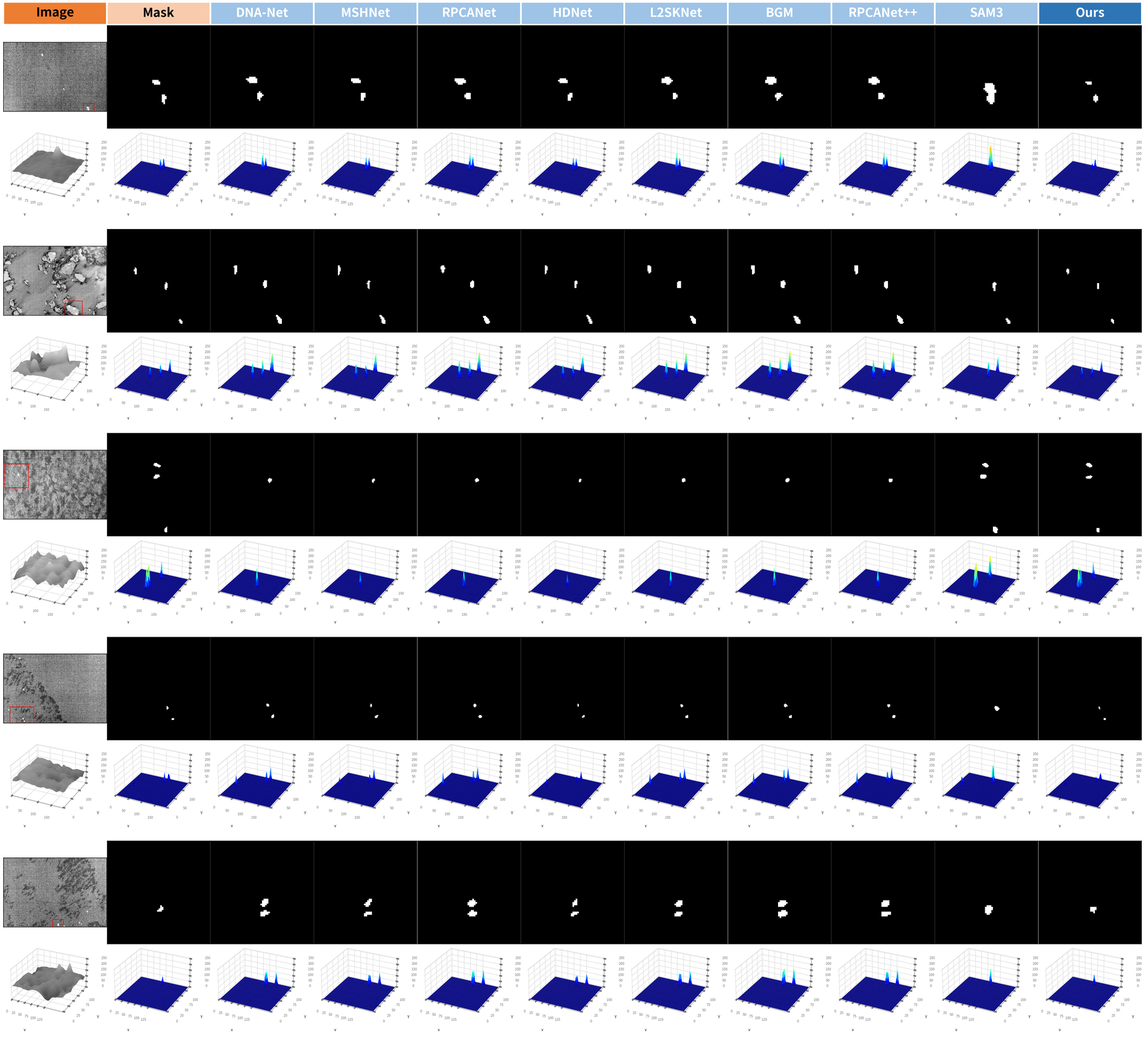
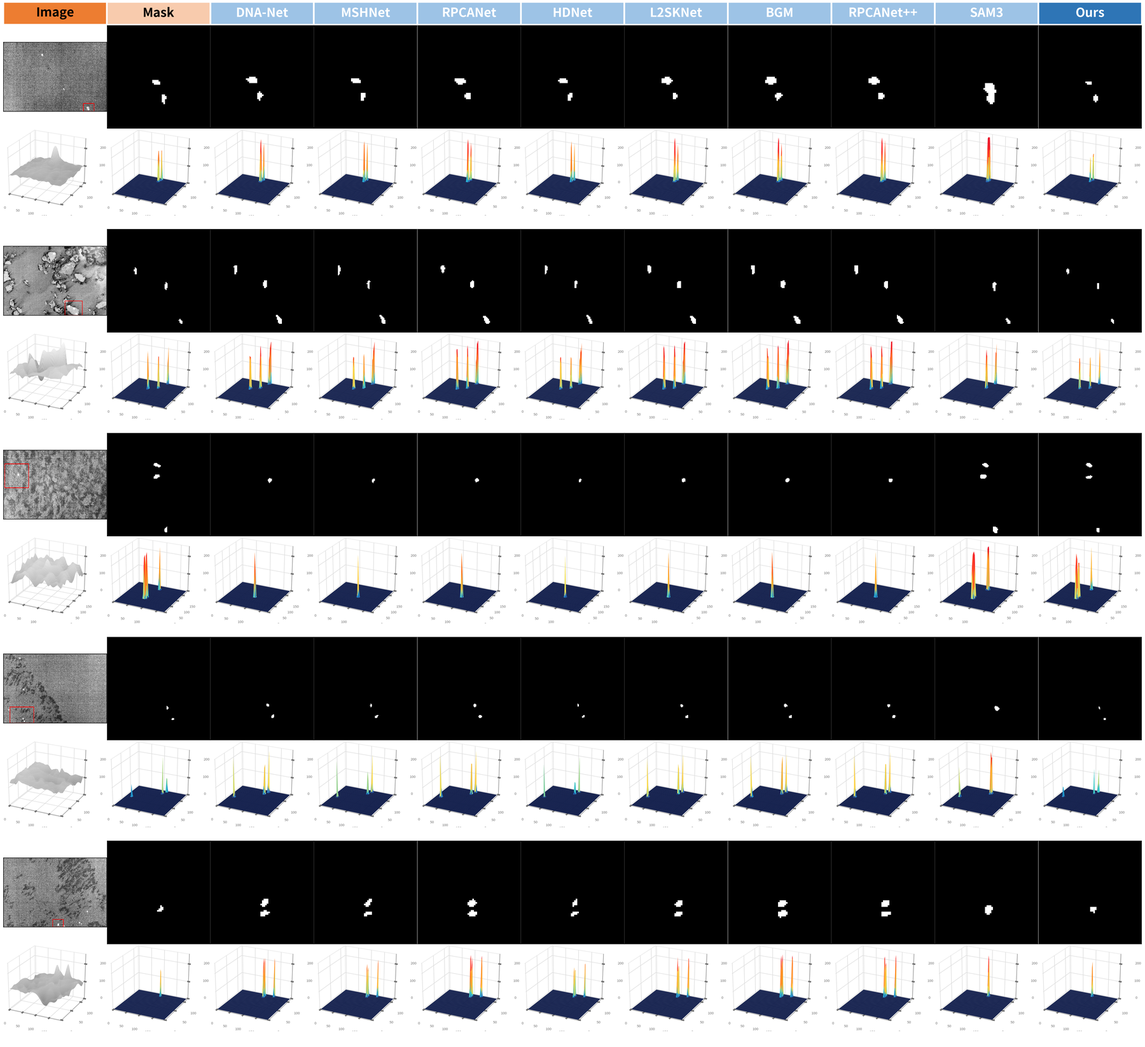
定性图 v5：3D 更满、峰更高更显眼、Visio 改用 TP/FP/FN 诊断面板
1) 3D 再满一档：trim_white pad 26 -> 6 px，盒子几乎占满格子
2) 峰更高更明显：
   - 平滑 sigma 2.0 -> 0.9（vmax 取平滑后峰值，峰顶到天花板；v3 峰顶只到 63%）
   - Z 轴统一 0-255（--z-mode shared），概率图同一量纲、跨列可比
   - 盒子 z 比例 0.55 -> 1.00，峰在画面里更挺
   - 自定义 seal3d 色带（深蓝底 -> 青 -> 黄 -> 亮红）+ PowerNorm(0.45)，峰体整段暖色
3) 新增 --diag：TP 白 / FP 红 / FN 绿 + 红框标 GT；单独一套 panels_diag（242 张）
   Visio 改用诊断面板，可直接看漏检/误检

服务器 v1-v5 全留；本地只留 v5；Ours/qualitative/ 仍不进 git

diff --git a/tools/build_paper_qualitative.py b/tools/build_paper_qualitative.py
@@ -37,6 +37,7 @@ matplotlib.use('Agg')
 import matplotlib.pyplot as plt  # noqa: E402
 import numpy as np  # noqa: E402
 from matplotlib import gridspec  # noqa: E402
+from matplotlib.colors import LinearSegmentedColormap, PowerNorm  # noqa: E402
 from matplotlib.ticker import MaxNLocator  # noqa: E402
 from scipy.ndimage import gaussian_filter  # noqa: E402
 
@@ -52,6 +53,17 @@ RED = (0, 0, 255)          # BGR
 ZOOM = 10
 MARGIN = 32
 MIN_BOX = 80
+
+# 3D 响应面配色：底色深蓝（近乎黑），峰顶亮红——和压平的背景形成强对比
+SURF_CMAP = LinearSegmentedColormap.from_list('seal3d', [
+    (0.00, '#0a1746'),
+    (0.22, '#1f5fbe'),
+    (0.40, '#22c6d8'),
+    (0.60, '#ffe14d'),
+    (0.74, '#ff8a1f'),
+    (0.86, '#ff2d2d'),
+    (1.00, '#e00b2b'),
+])
 
 
 def load_image(stem, modality, gamma=1.0, stretch='percentile'):
@@ -122,6 +134,50 @@ def compose_panel(sheet, roi, with_box=True, with_inset=True, zoom=ZOOM):
     return panel
 
 
+def diag_panel(pred_bin, gt_bin, gt, roi, roi_mode, target=384, box_pad=8):
+    """TP/FP/FN colour panel: TP white, FP red, FN green, plus a red GT box.
+
+    Used for the Visio assembly so each method's error pattern (miss = green,
+    false alarm = red) is visible at a glance.
+    """
+    h, w = gt_bin.shape
+    colour = np.zeros((h, w, 3), np.uint8)
+    colour[pred_bin & gt_bin] = (255, 255, 255)
+    colour[pred_bin & ~gt_bin] = (0, 0, 255)      # BGR red
+    colour[~pred_bin & gt_bin] = (0, 255, 0)      # BGR green
+
+    ys, xs = np.where(gt_bin)
+    if len(ys):
+        gx0, gx1 = int(xs.min()), int(xs.max())
+        gy0, gy1 = int(ys.min()), int(ys.max())
+    else:
+        gx0 = gx1 = gy0 = gy1 = 0
+
+    y0, y1, x0, x1 = roi
+    if roi_mode:
+        crop = colour[y0:y1, x0:x1]
+        side = max(crop.shape[:2])
+        k = max(1, int(round(target / max(1, side))))
+        crop = cv2.resize(crop, None, fx=k, fy=k, interpolation=cv2.INTER_NEAREST)
+        ch, cw = crop.shape[:2]
+        canvas = np.zeros((max(ch, cw), max(ch, cw), 3), np.uint8)
+        oy, ox = (canvas.shape[0] - ch) // 2, (canvas.shape[1] - cw) // 2
+        canvas[oy:oy + ch, ox:ox + cw] = crop
+        # GT box in the upscaled ROI
+        bx0 = ox + (gx0 - x0) * k - box_pad
+        bx1 = ox + (gx1 - x0) * k + box_pad
+        by0 = oy + (gy0 - y0) * k - box_pad
+        by1 = oy + (gy1 - y0) * k + box_pad
+        thick = 2
+        cv2.rectangle(canvas, (max(0, bx0), max(0, by0)), (min(canvas.shape[1] - 1, bx1),
+                      min(canvas.shape[0] - 1, by1)), RED, thick, cv2.LINE_AA)
+        return canvas
+
+    panel = colour.copy()
+    cv2.rectangle(panel, (x0, y0), (x1, y1), RED, 2, cv2.LINE_AA)
+    return panel
+
+
 def roi_panel(sheet, roi, target=384):
     """Panel = the ROI itself, upscaled with nearest-neighbour (no inset)."""
     y0, y1, x0, x1 = roi
@@ -154,50 +210,52 @@ def trim_white(img_bgr, pad=10, thr=250):
     return img_bgr[y0:y1, x0:x1]
 
 
-def render_surface_png(surf, path, vmax, cmap='jet', smooth=2.0,
-                       size_in=(0.873, 0.733), dpi=1200, pad=26):
+def render_surface_png(arr, path, vmax, cmap='jet',
+                       size_in=(0.873, 0.733), dpi=1200, pad=6):
     """One 3D box as a standalone PNG, tight-cropped so the box fills the frame.
 
-    Rendered at exactly one cell of the composite figure (0.873 x 0.733 in) with the
-    same tick font, then the white border is trimmed. The composite figure pastes this
-    PNG back into the cell with aspect='auto', so the 3D box fills the cell instead of
-    floating in matplotlib's generous default margins.
+    `arr` is the already-smoothed response crop. Rendered at one cell of the composite
+    figure (0.873 x 0.733 in) with the same tick font, then the white border is trimmed
+    to `pad` px, so pasting it back with aspect='auto' fills the cell.
     """
     path.parent.mkdir(parents=True, exist_ok=True)
     f = plt.figure(figsize=size_in, dpi=dpi, facecolor='white')
     ax = f.add_subplot(111, projection='3d')
-    add_surface(ax, surf, vmax=vmax, cmap=cmap, smooth=smooth)
+    add_surface(ax, arr, vmax=vmax, cmap=cmap)
     f.subplots_adjust(left=0.0, right=1.0, bottom=0.0, top=1.0)
     import io
 
     buf = io.BytesIO()
     f.savefig(buf, format='png', dpi=dpi, facecolor='white')
     plt.close(f)
-    arr = cv2.imdecode(np.frombuffer(buf.getvalue(), np.uint8), cv2.IMREAD_COLOR)
-    arr = trim_white(arr, pad=pad)
-    cv2.imwrite(str(path), arr)
+    img = cv2.imdecode(np.frombuffer(buf.getvalue(), np.uint8), cv2.IMREAD_COLOR)
+    img = trim_white(img, pad=pad)
+    cv2.imwrite(str(path), img)
     return path
 
 
-def add_surface(ax, data, vmax=255.0, smooth=2.0, cmap='jet', tick_font=1.8):
-    """PDDiff Fig. 9 style surface: white panes, light grid, thin grey axes, tick labels."""
-    arr = data.astype(np.float32)
-    if smooth > 0:
-        arr = gaussian_filter(arr, smooth)
+def add_surface(ax, arr, vmax=255.0, cmap=SURF_CMAP, tick_font=1.7):
+    """PDDiff Fig. 9 style surface: filled frame, light grid, thin grey axes, tick labels.
+
+    `arr` must already be smoothed; `vmax` is normally the peak of `arr`, so the target
+    response always reaches the top of the box (tall, obvious peak) and gets the hot end
+    of the colour map.
+    """
     h, w = arr.shape
     step = max(1, min(h, w) // 48)
     yy, xx = np.mgrid[0:h:step, 0:w:step]
     zz = arr[::step, ::step]
-    ax.plot_surface(xx, yy, zz, cmap=cmap, rstride=1, cstride=1, linewidth=0,
-                    antialiased=True, vmin=0, vmax=vmax, shade=False)
+    norm = PowerNorm(gamma=0.45, vmin=0, vmax=vmax)
+    ax.plot_surface(xx, yy, zz, cmap=cmap, norm=norm, rstride=1, cstride=1, linewidth=0,
+                    antialiased=True, shade=False)
     ax.set_zlim(0, vmax)
     ax.view_init(elev=26, azim=-64)
 
-    # 坐标刻度：X/Y 是裁剪块像素坐标，Z 是响应值（概率图 0-255）；取整数"好刻度"，与 PDDiff 一致
-    loc = MaxNLocator(nbins=5, integer=True, steps=[1, 2, 2.5, 5, 10])
+    # 坐标刻度：X/Y 是裁剪块像素坐标，Z 是响应值；取整数"好刻度"，与 PDDiff 一致
+    loc = MaxNLocator(nbins=4, integer=True, steps=[1, 2, 2.5, 5, 10])
     ax.xaxis.set_major_locator(loc)
     ax.yaxis.set_major_locator(loc)
-    ax.zaxis.set_major_locator(MaxNLocator(nbins=5, integer=True, steps=[1, 2, 2.5, 5, 10]))
+    ax.zaxis.set_major_locator(MaxNLocator(nbins=4, integer=True, steps=[1, 2, 2.5, 5, 10]))
     ax.tick_params(axis='x', labelsize=tick_font, pad=-3.0, length=0.4, width=0.15,
                    colors='0.45')
     ax.tick_params(axis='y', labelsize=tick_font, pad=-3.0, length=0.4, width=0.15,
@@ -218,7 +276,7 @@ def add_surface(ax, data, vmax=255.0, smooth=2.0, cmap='jet', tick_font=1.8):
         axis.line.set_linewidth(0.22)
 
     ax.grid(True)
-    ax.set_box_aspect((1, 1, 0.55), zoom=0.85)
+    ax.set_box_aspect((1, 1, 1.00), zoom=0.88)
     ax.margins(0)
 
 
@@ -242,6 +300,8 @@ def main():
                          '<dir>/<nn>_<id>/2d/<col>.png and .../3d/<col>.png')
     ap.add_argument('--roi-min', type=int, default=MIN_BOX, help='minimum ROI side (px)')
     ap.add_argument('--roi-margin', type=int, default=MARGIN, help='padding around the GT bbox (px)')
+    ap.add_argument('--diag', action='store_true',
+                    help='2D panels = TP white / FP red / FN green + red GT box (for Visio)')
     ap.add_argument('--roi-panels', action='store_true',
                     help='2D row = upscaled ROI instead of full frame + inset')
     ap.add_argument('--z-mode', default='per-panel', choices=['shared', 'per-panel'])
@@ -345,15 +405,23 @@ def main():
                     panels.append(cv2.cvtColor(img, cv2.COLOR_GRAY2BGR))
                 surfaces.append(img[sy0:sy1, sx0:sx1])
             elif kind == 'mask':
-                sheet = np.where(gt > 127, 255, 0).astype(np.uint8)
-                panels.append(roi_panel(sheet, roi) if args.roi_panels else compose_panel(sheet, roi))
+                gt_bin = gt > 127
+                sheet = np.where(gt_bin, 255, 0).astype(np.uint8)
+                if args.diag:
+                    panels.append(diag_panel(gt_bin, gt_bin, gt, roi, args.roi_panels))
+                else:
+                    panels.append(roi_panel(sheet, roi) if args.roi_panels else compose_panel(sheet, roi))
                 surfaces.append(sheet[sy0:sy1, sx0:sx1])
             else:
                 m = load_map(path / f'{stem}.png')
                 if m.shape != gt.shape:
                     raise ValueError(f'{name}/{stem}: {m.shape} != {gt.shape}')
-                sheet = np.where(m >= 128, 255, 0).astype(np.uint8)
-                panels.append(roi_panel(sheet, roi) if args.roi_panels else compose_panel(sheet, roi))
+                pred_bin = m >= 128
+                sheet = np.where(pred_bin, 255, 0).astype(np.uint8)
+                if args.diag:
+                    panels.append(diag_panel(pred_bin, gt > 127, gt, roi, args.roi_panels))
+                else:
+                    panels.append(roi_panel(sheet, roi) if args.roi_panels else compose_panel(sheet, roi))
                 if name in surf_dirs:
                     resp = load_map(surf_dirs[name] / f'{stem}.png')
                     if resp.shape != gt.shape:
@@ -371,13 +439,15 @@ def main():
             for spine in ax.spines.values():
                 spine.set_color('black'), spine.set_linewidth(0.3)
         for j, surf in enumerate(surfaces):
-            vmax = 255.0 if args.z_mode == 'shared' else max(20.0, float(surf.max()))
-            cmap = 'gray' if columns[j][2] == 'image' else 'jet'
-            smooth = 5.0 if columns[j][2] == 'image' else 2.0
+            cmap = 'gray' if columns[j][2] == 'image' else SURF_CMAP
+            smooth = 5.0 if columns[j][2] == 'image' else 0.9
+            arr = gaussian_filter(surf.astype(np.float32), smooth)
+            peak = float(arr.max())
+            vmax = 255.0 if args.z_mode == 'shared' else max(20.0, peak)
             col = safe_name(columns[j][0])
-            p3d = cache_root / f'{stem}_{j:02d}_{col}_{int(vmax)}.png'
+            p3d = cache_root / f'{stem}_{j:02d}_{col}_{int(round(vmax))}.png'
             if not p3d.exists():
-                render_surface_png(surf, p3d, vmax=vmax, cmap=cmap, smooth=smooth)
+                render_surface_png(arr, p3d, vmax=vmax, cmap=cmap)
             if split_root is not None:
                 dst = split_root / f'{si + 1:02d}_{stem}' / '3d' / f'{j:02d}_{col}.png'
                 dst.parent.mkdir(parents=True, exist_ok=True)

diff --git a/AGENTS.md b/AGENTS.md
@@ -62,7 +62,7 @@
 - DRPCA-Net 的 11.23 FPS 是实现开销而非测量噪声：`torch.profiler` 显示单次前向 CUDA 时间的 81.8 % 花在 `ChannelAttention` 的 `nn.AdaptiveMaxPool2d(1)`（每前向 29 次调用），且延迟对 batch 1/2/4 不敏感（85/56/65 ms）。按官方代码如实记录，不改实现。口径、对照表与差异分析见 [Seal 复杂度指标说明](docs/Seal复杂度指标_说明.md)。
 - 平凡基线（决定读表方式，不新增表行）：全背景预测（1,983 张全零）在同一 test GT 上为 S 0.49990、Fw 0、E 0.25、MAE 0.00020553，IoU/F1/Pd/Fa 均为 0。12 个基线与 Ours 的 S（0.49800–0.49915）全部低于该值，12 个基线的 MAE（0.000229–0.000375）全部高于该值，只有 Ours 的 MAE（0.00015090）低于它。因此 S/MAE 在 Seal 上不区分方法，比较以 Fw/IoU/F1/Pd/Fa 为主，S/MAE 须与平凡基线并列阅读；复算见 [汇总](docs/Seal全监督基线评估汇总.md#平凡基线全背景预测)。
 - 第三批（入表，行 29～32）：L2SKNet（TGRS25）、BGM（TGRS25）、DRPCA-Net（TGRS25）、DURD（TGRS26），均为 2025–2026 年、有官方代码的全监督单帧方法，12 个对比方法到此凑满。目录 `L2SKNet-main/`、`BGM-main/`、`DRPCA-Net-main/`、`DURD-main/`；训练设置：L2SKNet 150/Adam 5e-4、BGM 150/Adam 5e-4（两者模型输出已是概率，用概率空间 dataset 级 IoU）、DRPCA-Net 60/Adam 3e-5/dataset 级 SoftIoU + 0.01 MSE、DURD 100/Adam 1e-4/SoftIoU + 0.1 MSE。各处改动逐条写在对应实验记录与 [汇总](docs/Seal全监督基线评估汇总.md#训练不稳定与失败记录)。
-- 论文版式定性图（对齐 PDDiff Fig. 8/9）：[tools/build_paper_qualitative.py](tools/build_paper_qualitative.py)，每个样例两行（2D 二值面板 + 红框/放大插图；3D 响应面 `elev=26, azim=-64`、按面板 z 上限）。三条硬约束：① 3D 行必须喂**概率图**（`--surf-maps results/<M>/Seal/fullsup_test_maps`），二值图是 0/255 阶跃，画出来只有一根尖刺；② Seal 目标只有 3–5 px，`full` 版式（整幅 + 右下插图）在 0.87 in 列宽下几乎看不见，正式图用 `--roi-panels`（面板 = 6 倍放大 ROI，`--roi-min 64 --roi-margin 24`）；③ 11 列 × 11 样例按 9.6 in 出图，若按 7.2 in 排版表头掉到 5.6 pt，主图应拆成 `seal_pick6_roi` + `seal_pick5_roi` 两张。样例取 [docs/qualitative_rank_top200.json](docs/qualitative_rank_top200.json)（`score = F1(Ours) − mean_k F1(baseline_k)`，可用 [docs/qualitative_review_top200.html](docs/qualitative_review_top200.html) 逐图复核），当前采用排名 1,2,5,6,8,11,13,15,19,21,29 共 11 张，一键重建 [tools/make_paper_qualitative_pick.sh](tools/make_paper_qualitative_pick.sh)。Ours 预测在 `Ours/test_maps`（1,983 张概率图）、SAM3 在 `Ours/SAM3-test_maps`（同阈值 `>=128`）。版式规格、样例清单与读数见 [docs/Seal定性图_论文版式.md](docs/Seal定性图_论文版式.md)，预览 `docs/assets/seal_qualitative_pick6_roi.png`、`docs/assets/seal_qualitative_pick11_full.png`。全分辨率成品（600 dpi PNG + 矢量 PDF + meta，约 100 MB/版）按版本归档：服务器保留全部历史（v1 `qualitative_paper/user_pick/`、v2 `v2_20261105/`、v3 `v3_20261105/`、v4 `v4_20261105/`），本地只留最新一版在 `Ours/qualitative/v4_20261105/`；**整个 `Ours/qualitative/` 不进 git**（单版 100 MB 量级，`.gitignore` 整目录排除，只有 `docs/assets/` 里的 1800 px 预览入库）。版式演进：v2 压紧列间距、3D 加网格 + 整数刻度 + 轴名、去掉黑色粗轴线；v3 把 3D 刻度降到 1.8 pt、盒子 `zoom=0.85`，并用 `--split-dir` 把每个 2D 面板 / 3D 盒子拆成单图；**v4 解决"3D 格子四周空白太大"：每个 3D 先单独渲染成 PNG（0.873×0.733 in @1200 dpi，与格子同尺寸同字号）→ `trim_white` 裁掉白边（26 px）→ `aspect='auto'` 贴回格子，盒子占格宽从 66% 提到约 90%**；代价是拼图里的 3D 行变成位图（PDF 从 5–10 MB 反而降到 1–2.3 MB）。Visio 版由 [tools/make_visio_qualitative.ps1](tools/make_visio_qualitative.ps1) 用 Visio COM 生成（仅 Windows + 已装 Visio）：11 页、每样例一页、每页 34 个独立形状（表头矩形 + 22 张图片 + 页脚说明），可手动调整格式。
+- 论文版式定性图（对齐 PDDiff Fig. 8/9）：[tools/build_paper_qualitative.py](tools/build_paper_qualitative.py)，每个样例两行（2D 二值面板 + 红框/放大插图；3D 响应面 `elev=26, azim=-64`、按面板 z 上限）。三条硬约束：① 3D 行必须喂**概率图**（`--surf-maps results/<M>/Seal/fullsup_test_maps`），二值图是 0/255 阶跃，画出来只有一根尖刺；② Seal 目标只有 3–5 px，`full` 版式（整幅 + 右下插图）在 0.87 in 列宽下几乎看不见，正式图用 `--roi-panels`（面板 = 6 倍放大 ROI，`--roi-min 64 --roi-margin 24`）；③ 11 列 × 11 样例按 9.6 in 出图，若按 7.2 in 排版表头掉到 5.6 pt，主图应拆成 `seal_pick6_roi` + `seal_pick5_roi` 两张。样例取 [docs/qualitative_rank_top200.json](docs/qualitative_rank_top200.json)（`score = F1(Ours) − mean_k F1(baseline_k)`，可用 [docs/qualitative_review_top200.html](docs/qualitative_review_top200.html) 逐图复核），当前采用排名 1,2,5,6,8,11,13,15,19,21,29 共 11 张，一键重建 [tools/make_paper_qualitative_pick.sh](tools/make_paper_qualitative_pick.sh)。Ours 预测在 `Ours/test_maps`（1,983 张概率图）、SAM3 在 `Ours/SAM3-test_maps`（同阈值 `>=128`）。版式规格、样例清单与读数见 [docs/Seal定性图_论文版式.md](docs/Seal定性图_论文版式.md)，预览 `docs/assets/seal_qualitative_pick6_roi.png`、`docs/assets/seal_qualitative_pick11_full.png`。全分辨率成品（600 dpi PNG + 矢量 PDF + meta，约 110 MB/版）按版本归档：服务器保留全部历史（v1 `qualitative_paper/user_pick/`、v2 `v2_20261105/`、v3 `v3_20261105/`、v4 `v4_20261105/`、v5 `v5_20261105/`），本地只留最新一版在 `Ours/qualitative/v5_20261105/`；**整个 `Ours/qualitative/` 不进 git**（`.gitignore` 整目录排除，只有 `docs/assets/` 里的 1800 px 预览入库）。版式演进：v2 压紧列间距、3D 加网格 + 整数刻度 + 轴名、去掉黑色粗轴线；v3 加单图拆分与 Visio；v4 让 3D 盒子铺满格子（按格子尺寸渲染 PNG → 裁白边 → `aspect='auto'` 贴回）；**v5 解决「3D 白边仍偏大、峰不够高不够显眼」：裁边 26→6 px、平滑 σ 2.0→0.9、`vmax` 取平滑后峰值（峰顶到天花板）、Z 轴统一 0–255 保证跨列可比、盒子 z 比例 0.55→1.00、自定义 `seal3d` 色带（深蓝底→青→黄→亮红）+ `PowerNorm(0.45)`**；并新增 `--diag` 诊断面板（TP 白 / FP 红 / FN 绿 + 红框标 GT），Visio 改用诊断面板。Visio 版由 [tools/make_visio_qualitative.ps1](tools/make_visio_qualitative.ps1) 用 Visio COM 生成（仅 Windows + 已装 Visio）：11 页、每样例一页、每页 34 个独立形状（表头矩形 + 22 张图片 + 页脚说明），可手动调整格式。
 - 定性图（论文拼图用）：12 个方法与 Ours 的二值预测图在 `results/<Method>/Seal/test_binary/`（1,983 张，`pixel >= 128` → 255），由 [tools/make_binary_maps.py](tools/make_binary_maps.py) 与 [tools/make_qualitative.sh](tools/make_qualitative.sh) 生成；样例拼图在服务器 `qualitative/<stem>/panel.png`（RGB/热红外/GT/预测叠加，13 行），样例清单 `docs/Seal定性对比样例.json`，说明见 [docs/Seal定性对比图.md](docs/Seal定性对比图.md)。
 - ROC / P-R 曲线：[tools/roc_hist.py](tools/roc_hist.py) 逐方法把预测值按 GT 前景（`gt > 127`）/背景分箱成 256 桶直方图（服务器批量入口 [tools/roc_hist_all.sh](tools/roc_hist_all.sh) → `results/roc_hist/<Method>.json`，每方法约 3 KB），[tools/plot_roc_pr.py](tools/plot_roc_pr.py) 读 manifest 出图。产物按版本存 `Ours/roc_pr/<version>/`（当前 `v1_20261105/`），每次同时存 PNG（600 dpi）与 PDF：`roc`、`pr`、`roc_pr`（并排两联）三张图 + `curves.json` + `summary.md`。Ours 用 `Ours/test_maps`，12 个基线用 `results/<Method>/Seal/fullsup_test_maps`，同一批 1,983 张预测。阈值语义与八项指标一致：`t=128` 时精确率/召回率可逐位复原表中 F1 与 IoU（Ours 0.61905/0.44831 vs 表中 0.61912/0.44835）。三条读图约束：① 主指标用低 FPR 区间的 **pAUC**（FPR ∈ [0, 5×10⁻⁴] 归一化面积，Ours 0.64386，次优 SCTransNet 0.58376），**不要用全范围 AUC**——几乎不预测前景的 UIU-Net/SCTransNet/ILNet 反而拿到 0.977–0.981，与 S/MAE 被背景主导是同一类陷阱；② Ours 在 FPR ≲ 2.5×10⁻⁴ 整段在上，恰好覆盖 12 个基线的操作点范围（最大 Fa@t=128 = 2.4×10⁻⁴），2.8×10⁻⁴ 之后的交叉源于 Ours 有 31.5 % GT 前景像素恰为 0（弥散型方法只有 3.8–4.6 %），是输出稀疏度差异；③ 图中 `Pd@t=128` 是像素级召回率，与表中目标级 Pd（Ours 0.82731）不同口径，不能互引。口径、指标表与复现命令见 [docs/Seal_ROC_PR曲线.md](docs/Seal_ROC_PR曲线.md)，预览 `docs/assets/seal_roc_pr_v1.png`。
 - IoU 的边界敏感性：Seal 目标平均 14.3 像素，把 GT 膨胀/腐蚀 1 像素当预测只能得到 IoU 0.3910 / 0.0826；表中 IoU 0.19–0.31 对应约 1–2 像素边界误差，不能读作分割质量百分比，须与 Fw/F1/Pd/Fa 合看，详见 [定义对照](docs/小目标评价指标_定义与代码对照.md#iou-的边界敏感性seal-gt-实测)。

diff --git a/README.md b/README.md
@@ -65,7 +65,7 @@
 - DRPCA-Net 的 11.23 FPS 是实现开销而非测量噪声：`torch.profiler` 显示单次前向 CUDA 时间的 81.8 % 花在 `ChannelAttention` 的 `nn.AdaptiveMaxPool2d(1)`（每前向 29 次调用），且延迟对 batch 1/2/4 不敏感（85/56/65 ms）。按官方代码如实记录，不改实现。口径、对照表与差异分析见 [Seal 复杂度指标说明](docs/Seal复杂度指标_说明.md)。
 - 平凡基线（决定读表方式，不新增表行）：全背景预测（1,983 张全零）在同一 test GT 上为 S 0.49990、Fw 0、E 0.25、MAE 0.00020553，IoU/F1/Pd/Fa 均为 0。12 个基线与 Ours 的 S（0.49800–0.49915）全部低于该值，12 个基线的 MAE（0.000229–0.000375）全部高于该值，只有 Ours 的 MAE（0.00015090）低于它。因此 S/MAE 在 Seal 上不区分方法，比较以 Fw/IoU/F1/Pd/Fa 为主，S/MAE 须与平凡基线并列阅读；复算见 [汇总](docs/Seal全监督基线评估汇总.md#平凡基线全背景预测)。
 - 第三批（入表，行 29～32）：L2SKNet（TGRS25）、BGM（TGRS25）、DRPCA-Net（TGRS25）、DURD（TGRS26），均为 2025–2026 年、有官方代码的全监督单帧方法，12 个对比方法到此凑满。目录 `L2SKNet-main/`、`BGM-main/`、`DRPCA-Net-main/`、`DURD-main/`；训练设置：L2SKNet 150/Adam 5e-4、BGM 150/Adam 5e-4（两者模型输出已是概率，用概率空间 dataset 级 IoU）、DRPCA-Net 60/Adam 3e-5/dataset 级 SoftIoU + 0.01 MSE、DURD 100/Adam 1e-4/SoftIoU + 0.1 MSE。各处改动逐条写在对应实验记录与 [汇总](docs/Seal全监督基线评估汇总.md#训练不稳定与失败记录)。
-- 论文版式定性图（对齐 PDDiff Fig. 8/9）：[tools/build_paper_qualitative.py](tools/build_paper_qualitative.py)，每个样例两行（2D 二值面板 + 红框/放大插图；3D 响应面 `elev=26, azim=-64`、按面板 z 上限）。三条硬约束：① 3D 行必须喂**概率图**（`--surf-maps results/<M>/Seal/fullsup_test_maps`），二值图是 0/255 阶跃，画出来只有一根尖刺；② Seal 目标只有 3–5 px，`full` 版式（整幅 + 右下插图）在 0.87 in 列宽下几乎看不见，正式图用 `--roi-panels`（面板 = 6 倍放大 ROI，`--roi-min 64 --roi-margin 24`）；③ 11 列 × 11 样例按 9.6 in 出图，若按 7.2 in 排版表头掉到 5.6 pt，主图应拆成 `seal_pick6_roi` + `seal_pick5_roi` 两张。样例取 [docs/qualitative_rank_top200.json](docs/qualitative_rank_top200.json)（`score = F1(Ours) − mean_k F1(baseline_k)`，可用 [docs/qualitative_review_top200.html](docs/qualitative_review_top200.html) 逐图复核），当前采用排名 1,2,5,6,8,11,13,15,19,21,29 共 11 张，一键重建 [tools/make_paper_qualitative_pick.sh](tools/make_paper_qualitative_pick.sh)。Ours 预测在 `Ours/test_maps`（1,983 张概率图）、SAM3 在 `Ours/SAM3-test_maps`（同阈值 `>=128`）。版式规格、样例清单与读数见 [docs/Seal定性图_论文版式.md](docs/Seal定性图_论文版式.md)，预览 `docs/assets/seal_qualitative_pick6_roi.png`、`docs/assets/seal_qualitative_pick11_full.png`。全分辨率成品（600 dpi PNG + 矢量 PDF + meta，约 100 MB/版）按版本归档：服务器保留全部历史（v1 `qualitative_paper/user_pick/`、v2 `v2_20261105/`、v3 `v3_20261105/`、v4 `v4_20261105/`），本地只留最新一版在 `Ours/qualitative/v4_20261105/`；**整个 `Ours/qualitative/` 不进 git**（单版 100 MB 量级，`.gitignore` 整目录排除，只有 `docs/assets/` 里的 1800 px 预览入库）。版式演进：v2 压紧列间距、3D 加网格 + 整数刻度 + 轴名、去掉黑色粗轴线；v3 把 3D 刻度降到 1.8 pt、盒子 `zoom=0.85`，并用 `--split-dir` 把每个 2D 面板 / 3D 盒子拆成单图；**v4 解决"3D 格子四周空白太大"：每个 3D 先单独渲染成 PNG（0.873×0.733 in @1200 dpi，与格子同尺寸同字号）→ `trim_white` 裁掉白边（26 px）→ `aspect='auto'` 贴回格子，盒子占格宽从 66% 提到约 90%**；代价是拼图里的 3D 行变成位图（PDF 从 5–10 MB 反而降到 1–2.3 MB）。Visio 版由 [tools/make_visio_qualitative.ps1](tools/make_visio_qualitative.ps1) 用 Visio COM 生成（仅 Windows + 已装 Visio）：11 页、每样例一页、每页 34 个独立形状（表头矩形 + 22 张图片 + 页脚说明），可手动调整格式。
+- 论文版式定性图（对齐 PDDiff Fig. 8/9）：[tools/build_paper_qualitative.py](tools/build_paper_qualitative.py)，每个样例两行（2D 二值面板 + 红框/放大插图；3D 响应面 `elev=26, azim=-64`、按面板 z 上限）。三条硬约束：① 3D 行必须喂**概率图**（`--surf-maps results/<M>/Seal/fullsup_test_maps`），二值图是 0/255 阶跃，画出来只有一根尖刺；② Seal 目标只有 3–5 px，`full` 版式（整幅 + 右下插图）在 0.87 in 列宽下几乎看不见，正式图用 `--roi-panels`（面板 = 6 倍放大 ROI，`--roi-min 64 --roi-margin 24`）；③ 11 列 × 11 样例按 9.6 in 出图，若按 7.2 in 排版表头掉到 5.6 pt，主图应拆成 `seal_pick6_roi` + `seal_pick5_roi` 两张。样例取 [docs/qualitative_rank_top200.json](docs/qualitative_rank_top200.json)（`score = F1(Ours) − mean_k F1(baseline_k)`，可用 [docs/qualitative_review_top200.html](docs/qualitative_review_top200.html) 逐图复核），当前采用排名 1,2,5,6,8,11,13,15,19,21,29 共 11 张，一键重建 [tools/make_paper_qualitative_pick.sh](tools/make_paper_qualitative_pick.sh)。Ours 预测在 `Ours/test_maps`（1,983 张概率图）、SAM3 在 `Ours/SAM3-test_maps`（同阈值 `>=128`）。版式规格、样例清单与读数见 [docs/Seal定性图_论文版式.md](docs/Seal定性图_论文版式.md)，预览 `docs/assets/seal_qualitative_pick6_roi.png`、`docs/assets/seal_qualitative_pick11_full.png`。全分辨率成品（600 dpi PNG + 矢量 PDF + meta，约 110 MB/版）按版本归档：服务器保留全部历史（v1 `qualitative_paper/user_pick/`、v2 `v2_20261105/`、v3 `v3_20261105/`、v4 `v4_20261105/`、v5 `v5_20261105/`），本地只留最新一版在 `Ours/qualitative/v5_20261105/`；**整个 `Ours/qualitative/` 不进 git**（`.gitignore` 整目录排除，只有 `docs/assets/` 里的 1800 px 预览入库）。版式演进：v2 压紧列间距、3D 加网格 + 整数刻度 + 轴名、去掉黑色粗轴线；v3 加单图拆分与 Visio；v4 让 3D 盒子铺满格子（按格子尺寸渲染 PNG → 裁白边 → `aspect='auto'` 贴回）；**v5 解决「3D 白边仍偏大、峰不够高不够显眼」：裁边 26→6 px、平滑 σ 2.0→0.9、`vmax` 取平滑后峰值（峰顶到天花板）、Z 轴统一 0–255 保证跨列可比、盒子 z 比例 0.55→1.00、自定义 `seal3d` 色带（深蓝底→青→黄→亮红）+ `PowerNorm(0.45)`**；并新增 `--diag` 诊断面板（TP 白 / FP 红 / FN 绿 + 红框标 GT），Visio 改用诊断面板。Visio 版由 [tools/make_visio_qualitative.ps1](tools/make_visio_qualitative.ps1) 用 Visio COM 生成（仅 Windows + 已装 Visio）：11 页、每样例一页、每页 34 个独立形状（表头矩形 + 22 张图片 + 页脚说明），可手动调整格式。
 - 定性图（论文拼图用）：12 个方法与 Ours 的二值预测图在 `results/<Method>/Seal/test_binary/`（1,983 张，`pixel >= 128` → 255），由 [tools/make_binary_maps.py](tools/make_binary_maps.py) 与 [tools/make_qualitative.sh](tools/make_qualitative.sh) 生成；样例拼图在服务器 `qualitative/<stem>/panel.png`（RGB/热红外/GT/预测叠加，13 行），样例清单 `docs/Seal定性对比样例.json`，说明见 [docs/Seal定性对比图.md](docs/Seal定性对比图.md)。
 - ROC / P-R 曲线：[tools/roc_hist.py](tools/roc_hist.py) 逐方法把预测值按 GT 前景（`gt > 127`）/背景分箱成 256 桶直方图（服务器批量入口 [tools/roc_hist_all.sh](tools/roc_hist_all.sh) → `results/roc_hist/<Method>.json`，每方法约 3 KB），[tools/plot_roc_pr.py](tools/plot_roc_pr.py) 读 manifest 出图。产物按版本存 `Ours/roc_pr/<version>/`（当前 `v1_20261105/`），每次同时存 PNG（600 dpi）与 PDF：`roc`、`pr`、`roc_pr`（并排两联）三张图 + `curves.json` + `summary.md`。Ours 用 `Ours/test_maps`，12 个基线用 `results/<Method>/Seal/fullsup_test_maps`，同一批 1,983 张预测。阈值语义与八项指标一致：`t=128` 时精确率/召回率可逐位复原表中 F1 与 IoU（Ours 0.61905/0.44831 vs 表中 0.61912/0.44835）。三条读图约束：① 主指标用低 FPR 区间的 **pAUC**（FPR ∈ [0, 5×10⁻⁴] 归一化面积，Ours 0.64386，次优 SCTransNet 0.58376），**不要用全范围 AUC**——几乎不预测前景的 UIU-Net/SCTransNet/ILNet 反而拿到 0.977–0.981，与 S/MAE 被背景主导是同一类陷阱；② Ours 在 FPR ≲ 2.5×10⁻⁴ 整段在上，恰好覆盖 12 个基线的操作点范围（最大 Fa@t=128 = 2.4×10⁻⁴），2.8×10⁻⁴ 之后的交叉源于 Ours 有 31.5 % GT 前景像素恰为 0（弥散型方法只有 3.8–4.6 %），是输出稀疏度差异；③ 图中 `Pd@t=128` 是像素级召回率，与表中目标级 Pd（Ours 0.82731）不同口径，不能互引。口径、指标表与复现命令见 [docs/Seal_ROC_PR曲线.md](docs/Seal_ROC_PR曲线.md)，预览 `docs/assets/seal_roc_pr_v1.png`。
 - IoU 的边界敏感性：Seal 目标平均 14.3 像素，把 GT 膨胀/腐蚀 1 像素当预测只能得到 IoU 0.3910 / 0.0826；表中 IoU 0.19–0.31 对应约 1–2 像素边界误差，不能读作分割质量百分比，须与 Fw/F1/Pd/Fa 合看，详见 [定义对照](docs/小目标评价指标_定义与代码对照.md#iou-的边界敏感性seal-gt-实测)。

diff --git a/docs/Seal定性图_论文版式.md b/docs/Seal定性图_论文版式.md
@@ -112,7 +112,7 @@ python tools/build_paper_qualitative.py \
 
 （`2688/2120/2894` 是多目标或细长目标，视野被 `--roi-min 64` 自动放大到 98–138 px。）
 
-构建：`bash tools/make_paper_qualitative_pick.sh all qualitative_paper/v4_20261105`（第二个参数是输出目录，默认 `qualitative_paper/latest`；**每次改版都给新目录**，别覆盖旧版）。`full`/`roi` 二选一也行。
+构建：`bash tools/make_paper_qualitative_pick.sh all qualitative_paper/v5_20261105`（第二个参数是输出目录，默认 `qualitative_paper/latest`；**每次改版都给新目录**，别覆盖旧版）。`full`/`roi` 二选一也行。
 
 ### 版本
 
@@ -121,11 +121,12 @@ python tools/build_paper_qualitative.py \
 | v1 | `qualitative_paper/user_pick/` | 已删除 | 首版：3D 无刻度、有黑色粗轴线、列间距 0.02、Image 列 `gray+sigma3` |
 | v2 | `qualitative_paper/v2_20261105/` | 已删除 | 列间距压到 0.004、2D 行按真实比例、3D 加网格+整数刻度+轴名、去掉黑粗轴线、3D 盒子 `zoom=0.78` |
 | v3 | `qualitative_paper/v3_20261105/` | 已删除 | 3D 刻度 1.8 pt、`zoom=0.85`；新增单图拆分 `panels_roi/` 与 Visio 版 |
-| v4（当前） | `qualitative_paper/v4_20261105/` | `Ours/qualitative/v4_20261105/` | 3D 盒子铺满格子：每个 3D 先单独渲染（0.873×0.733 in @1200 dpi，与格子同尺寸同字号）→ 裁白边（26 px）→ `aspect='auto'` 贴回，盒子占格宽从 66% 提到约 90%；拼图里的 3D 行因此变成位图，PDF 从 5–10 MB 降到 1–2.3 MB |
+| v4 | `qualitative_paper/v4_20261105/` | 已删除 | 3D 盒子铺满格子：每个 3D 先单独渲染（0.873×0.733 in @1200 dpi，与格子同尺寸同字号）→ 裁白边（26 px）→ `aspect='auto'` 贴回；拼图里的 3D 行因此变成位图，PDF 从 5–10 MB 降到 1–2.3 MB |
+| v5（当前） | `qualitative_paper/v5_20261105/` | `Ours/qualitative/v5_20261105/` | 3D 更满（裁边 26→6 px）+ 峰更高更亮：平滑 σ 2.0→0.9、`vmax`=平滑后峰值、Z 轴统一 0–255、盒子 z 比例 0.55→1.00、自定义 `seal3d` 色带（深蓝底→青→黄→亮红）+ `PowerNorm(0.45)`；新增 `--diag` 诊断面板（TP 白 / FP 红 / FN 绿 + 红框），Visio 改用诊断面板 |
 
 服务器保留全部历史版本；本地只留最新一版，**整个 `Ours/qualitative/` 不进 git**（单版 100 MB 量级，`.gitignore` 已整目录排除）。
 
-v4 产物（600 dpi PNG + 矢量 PDF + meta）：
+v5 产物（600 dpi PNG + 矢量 PDF + meta）：
 
 | 文件 | 内容 | 尺寸 |
 |---|---|---|
@@ -133,14 +134,17 @@ v4 产物（600 dpi PNG + 矢量 PDF + meta）：
 | `seal_pick6_qualitative.*` / `seal_pick5_qualitative.*` | 同样例拆成 6 + 5 两张 | 5760×5569 / 5760×4666 px |
 | `seal_pick11_roi_qualitative.*` | 11 样例，`roi` 版式（面板 = 6 倍放大 ROI） | 5760×11408 px / 9.6×19.0 in |
 | `seal_pick6_roi_*` / `seal_pick5_roi_*` | 同上拆两张 | 5760×6290 / 5760×5267 px |
-| `panels_roi/<nn>_<id>/2d|3d/<col>.png` | 单图拆分：每个 2D 面板、每个 3D 盒子各一张 | 2D 384×384；3D 923×743（已裁白边） |
-| `seal_qualitative_11col.vsdx` | Visio 可编辑版：11 页（每样例一页），34 个独立形状/页 | 页面 18.3×4.3 in |
+| `seal_diag_roi_qualitative.*` | 诊断版拼图（TP 白 / FP 红 / FN 绿 + 红框） | 5760×11408 px |
+| `panels_roi/…` / `panels_diag/…` | 单图拆分各 242 张：`<nn>_<id>/2d|3d/<col>.png` | 2D 384×384；3D ~923×806（已裁白边） |
+| `seal_qualitative_11col.vsdx` | Visio 可编辑版（诊断面板）：11 页，34 个独立形状/页 | 页面 18.3×4.3 in |
 
 单图拆分的 3D 图就是拼图里贴的那张（同一次渲染、缓存目录 `<out>/_3d_cache/`），所以 Visio 里看到的效果与拼图完全一致。
 
+3D 的 Z 轴用 `--z-mode shared` 固定 0–255：所有列都是同一量纲的概率图，跨列可比（PDDiff 也是这么做的）；峰高=真实响应强度，颜色用 `PowerNorm(gamma=0.45)` 让中等响应也偏暖色，避免"响应弱就看不出峰"。
+
 Visio 版由 [tools/make_visio_qualitative.ps1](tools/make_visio_qualitative.ps1) 用 Visio COM 生成（仅 Windows + 已装 Visio 可用）：表头是带填充/文字/雅黑的矩形，图片是嵌入的图片形状，页脚一行说明——都能单独选中改格式。
 
-仓库内预览（1800 px 宽，仅用于查看版式，已同步为 v4）：[`seal_qualitative_pick6_roi.png`](assets/seal_qualitative_pick6_roi.png)、[`seal_qualitative_pick5_roi.png`](assets/seal_qualitative_pick5_roi.png)、[`seal_qualitative_pick11_full.png`](assets/seal_qualitative_pick11_full.png)。
+仓库内预览（1800 px 宽，仅用于查看版式，已同步为 v5）：[`seal_qualitative_pick6_roi.png`](assets/seal_qualitative_pick6_roi.png)、[`seal_qualitative_pick5_roi.png`](assets/seal_qualitative_pick5_roi.png)、[`seal_qualitative_pick11_full.png`](assets/seal_qualitative_pick11_full.png)。
 
 从图上直接能读到的事实（对照表 21～32 行）：
 
